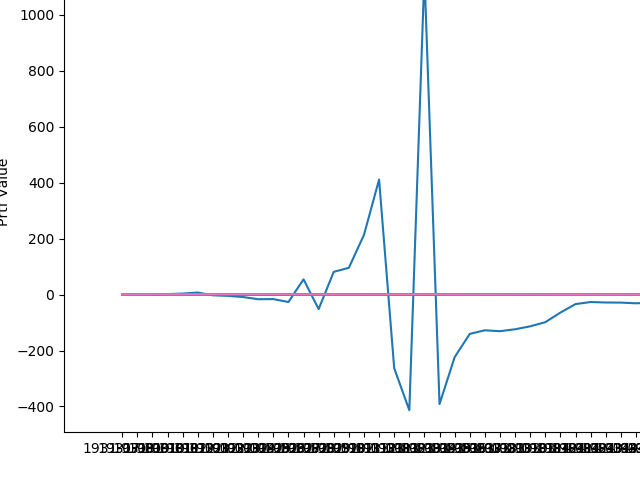
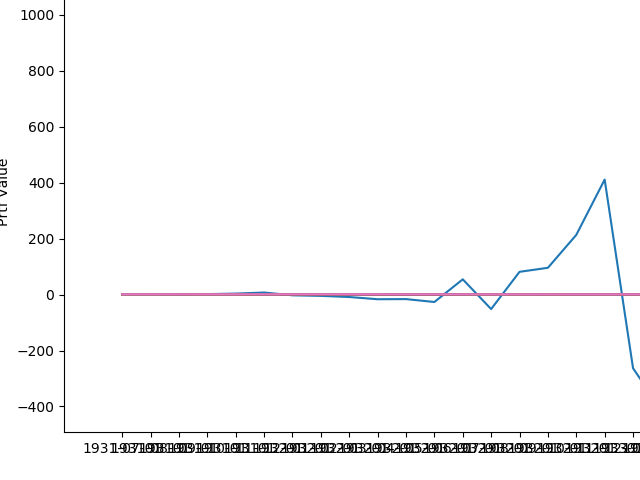
added short sale constraint, adjusted arrays for t+1 but outside my objective function in case it was reshaped at each optimization iteration

diff --git a/function/myf.py b/function/myf.py
@@ -248,40 +248,23 @@ def prtf_return(weights, industry_returns):
 
 ##----- Part B, Q 8  Replicating Parametric Paper
 
-# ## -----Optimal Portfolios weights at time t parametrized as a function of Theta ----- ##
-# def opt_prtf_w(bench_mc_w, bench_eqw_w, size_MC, salue_BM, momentum, time_t, eqw_bench=False):
-#     if eqw_bench=True:
-#         bench_w = bench_eqw_w
-#     else:
-#         bench_w = bench_mc_w
-#
-#
-#     return opt_w
-#
-# ## -----Investor's Utility function CRRA ----- ##
-# def utility_CRRA(prt_ret, rra_factor):
-#     return ((1 + prt_ret) ** (1 - rra_factor) ) / (1 - rra_factor)
-
-
-# Nt = 10 industries
-# T = 1123 months
-# Theta = [] 1 x 3
-# x1, x2, x3        # T x 10
-# r                 # T x 10 monthly returns
-# Theta_x           T * 10
-
-
-# TO DO fix r t+1
-# standardize charact
-# add constraint on weights
+# TO DO fix r t+1 -- done
+# standardize charact -- done
+# add constraint on weights -- done
 
 def objective_8(theta, w_bar, x1, x2, x3, monthly_ret):
-    # Transforming data to numpy array as quicker to compute than dataframes
-    w_bar = np.asarray(w_bar)
-    x1 = x1.to_numpy()
-    x2 = x2.to_numpy()
-    x3 = x3.to_numpy()
-    monthly_ret = monthly_ret.to_numpy()
+    # # Transforming data to numpy array as quicker to compute than dataframes
+    # w_bar = np.asarray(w_bar)
+    # x1 = x1.to_numpy()
+    # x2 = x2.to_numpy()
+    # x3 = x3.to_numpy()
+    # monthly_ret = monthly_ret.to_numpy()
+    #
+    # monthly_ret = monthly_ret[1:,:]            # removing first month of returns (since we sum starting at t=1)
+    # w_bar = w_bar[:-1,:]             # removing last month of weights (since summed to T-1)
+    # x1 = x1[:-1, :]
+    # x2 = x2[:-1, :]
+    # x3 = x3[:-1, :]
 
     # Standardizing characteristics crosssectionally (accross columns)
     x1 = stats.zscore(x1, axis=1)
@@ -297,6 +280,11 @@ def objective_8(theta, w_bar, x1, x2, x3, monthly_ret):
 
     opt_weight = w_bar + theta_x
 
+    opt_weight[opt_weight < 0] = 0
+    sum_weight = np.sum(opt_weight, axis=1)
+    sum_weight = sum_weight[np.newaxis]
+    opt_weight = opt_weight / sum_weight.T
+
     ret_i_t = opt_weight * monthly_ret
 
     ret_t = np.sum(ret_i_t, axis=1)         # summing over the col
@@ -305,5 +293,4 @@ def objective_8(theta, w_bar, x1, x2, x3, monthly_ret):
 
     f = np.mean(utility)
 
-
-    return(f)
+    return(-f)

diff --git a/TP2_main.py b/TP2_main.py
@@ -33,9 +33,9 @@ start_date_3        = "2000-01-01"
 end_date            = "2020-01-01"
 
 #To test shorter period
-start_date_2        = "1934-01-01"
-start_date_3        = "1936-01-01"
-end_date            = "1938-01-01"
+start_date_2        = "1933-01-01"
+start_date_3        = "1934-01-01"
+end_date            = "1935-01-01"
 
 
 idx_start_1         = list(date_vec.strftime("%Y-%m-%d")).index(start_date_1)
@@ -457,7 +457,24 @@ for dates in Size_MC.index:
     den = pd.DataFrame(Total_Mrkt_Caps).iloc[-1][0]
     Bench_MC_weights.append(Size_MC.loc[dates, :].div(den))
 
-fun = myf.objective_8([0.4, 0.4, 0.2], Bench_MC_weights, Size_MC, Value_BM, Momentum, all_monthly_returns)
-print(fun)
+# Transforming data to numpy array as quicker to compute than dataframes
+Bench_MC_weights = np.asarray(Bench_MC_weights)
+Size_MC = Size_MC.to_numpy()
+Value_BM = Value_BM.to_numpy()
+Momentum = Momentum.to_numpy()
+all_monthly_returns = all_monthly_returns.to_numpy()
+
+all_monthly_returns = all_monthly_returns[1:,:]            # removing first month of returns (since we sum starting at t=1)
+w_bar = w_bar[:-1,:]             # removing last month of weights (since summed to T-1)
+Size_MC = Size_MC[:-1, :]
+Value_BM = Value_BM[:-1, :]
+Momentum = Momentum[:-1, :]
+
+#fun = myf.objective_8([0.4, 0.4, 0.2], Bench_MC_weights, Size_MC, Value_BM, Momentum, all_monthly_returns)
+fun = minimize(myf.objective_8, [0.4, 0.4, 0.2], args=(Bench_MC_weights, Size_MC, Value_BM, Momentum, all_monthly_returns),
+               method="SLSQP")
+
+Theta = fun.x
+print(Theta)
 
 print(True)
